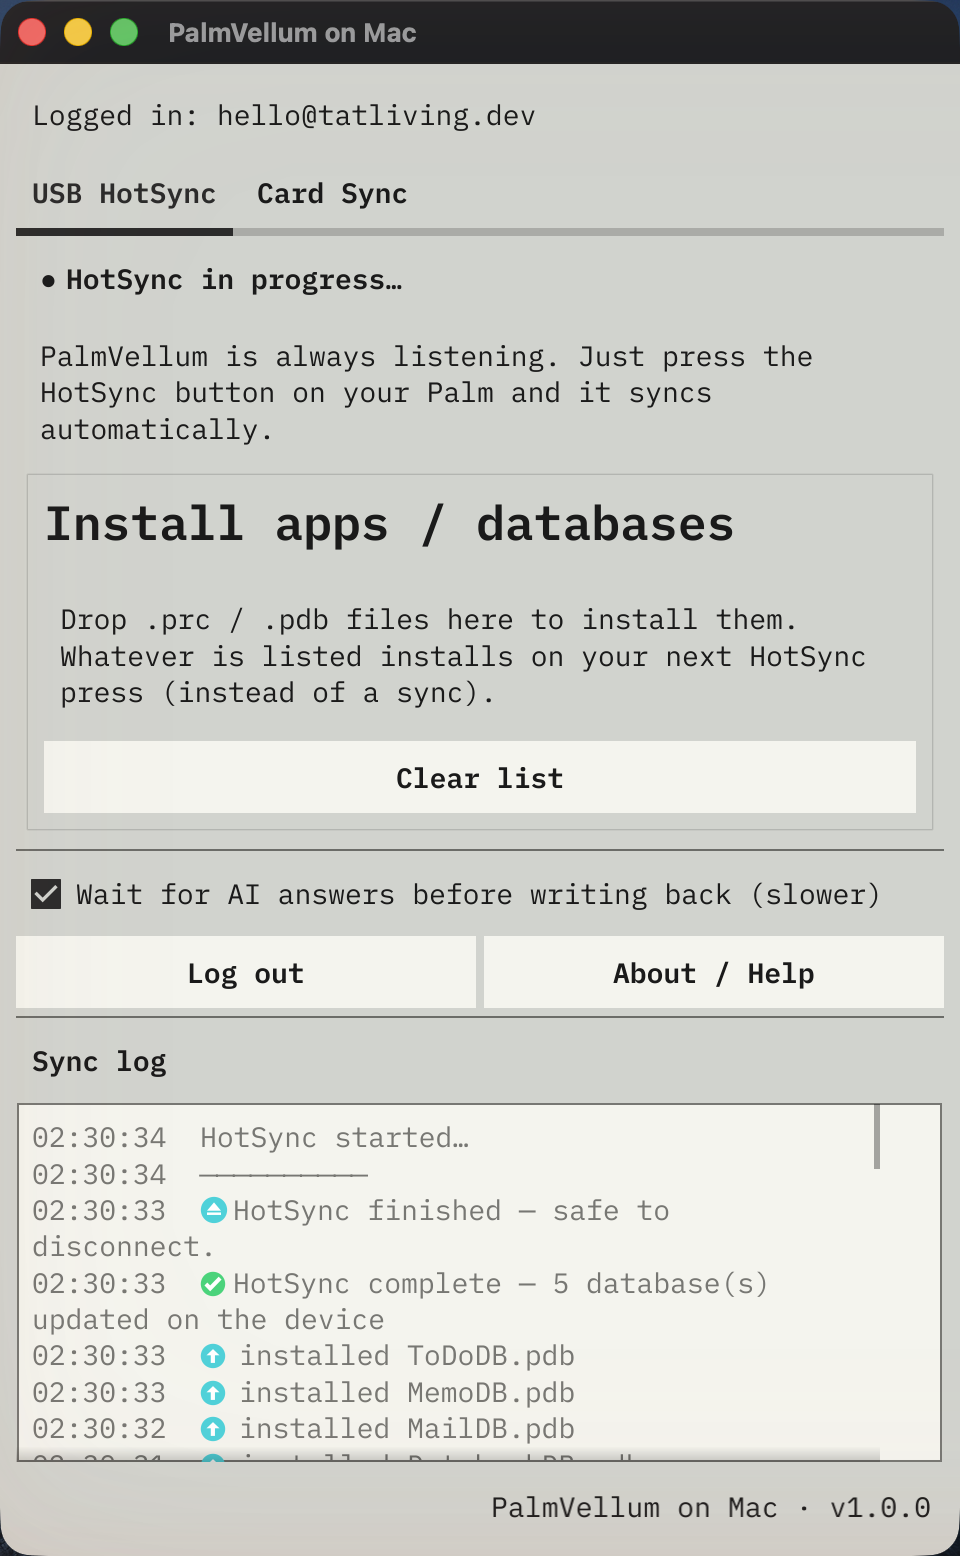
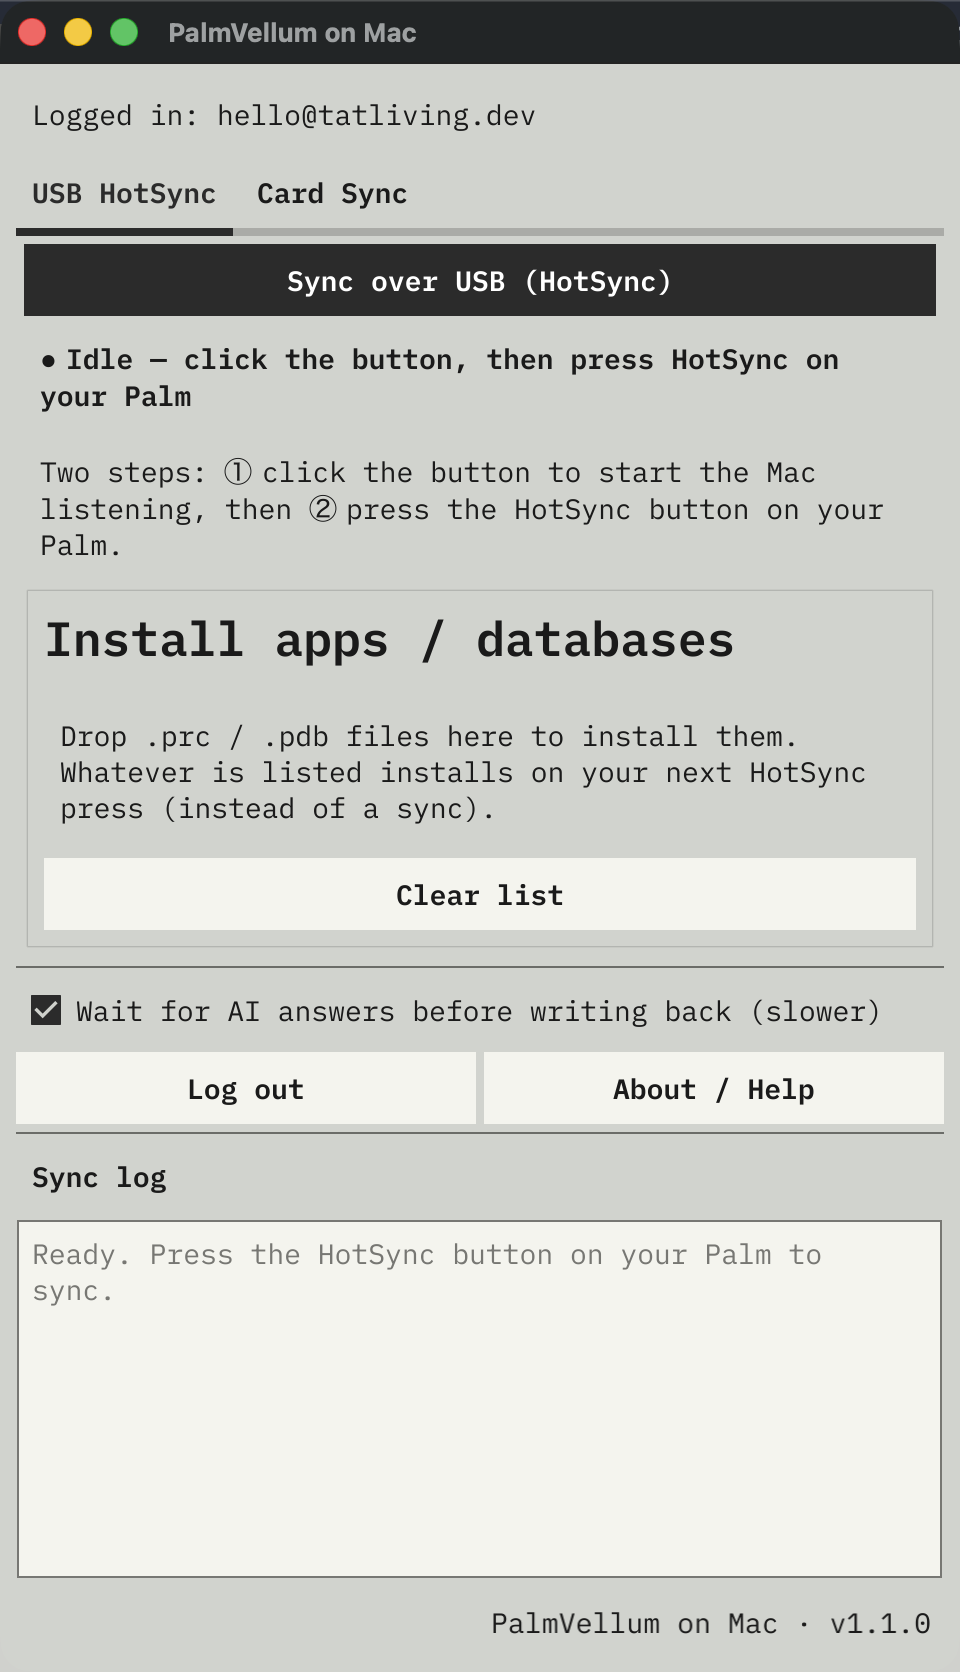
docs: v1.1.0 app screenshot + click-to-listen copy
Refresh the README / PWA app screenshot to the v1.1.0 UI (the explicit
'Sync over USB' button) and reword the README from 'always listening' to
the click-then-press flow.

Changed region(s): [[0.0, 0.0, 1.0, 0.9871], [0.9688, 0.9871, 1.0, 1.0], [0.0, 0.9871, 0.0312, 1.0]]

diff --git a/README.md b/README.md
@@ -20,10 +20,10 @@
 
 <img src="docs/photos/sync-app.png" alt="PalmVellum on Mac — always-listening USB HotSync, drag-and-drop install zone, and a live sync log" width="300" align="right">
 
-Connect a Sony Clié by USB and press the **HotSync** button — the app is always
-listening and syncs Memo Pad, To Do, Date Book, Address & Mail with the cloud in
-one press. Drag and drop `.prc`/`.pdb` files to install apps onto the device. A
-Memory Stick card-sync path is included too.
+Connect a Sony Clié by USB, click **Sync over USB**, then press the **HotSync**
+button on the Palm — it syncs Memo Pad, To Do, Date Book, Address & Mail with the
+cloud in one go. Drag and drop `.prc`/`.pdb` files to install apps onto the
+device. A Memory Stick card-sync path is included too.
 
 ⚠ **Tested on Sony Clié over USB only** — other USB Palms and SD-card devices are
 unverified. A restore point is saved before every write-back.
